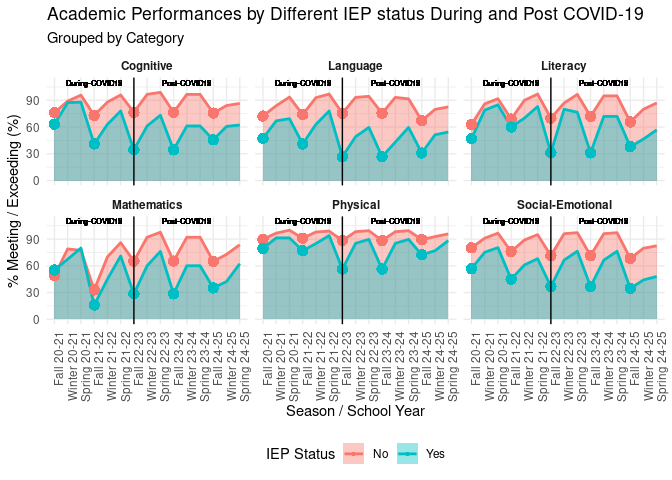
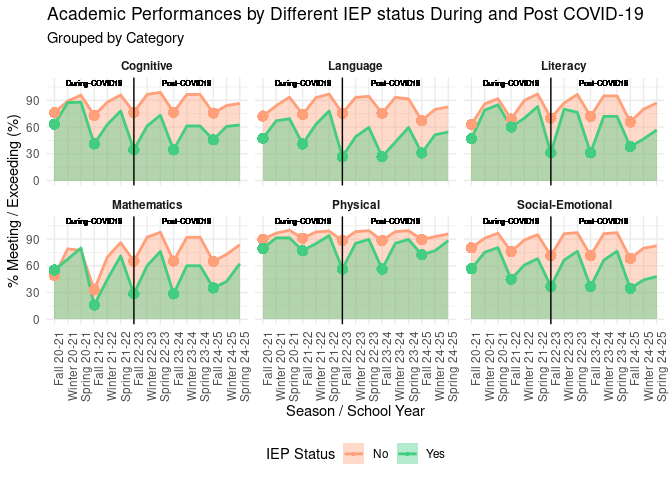
Complete IEP Graph Color

diff --git a/proposal/proposal.md b/proposal/proposal.md
@@ -541,6 +541,18 @@ iep_graph <- ggplot(
     color = "IEP Status"
   ) +
   scale_size_identity(guide = "none") +
+  scale_color_manual(
+    values = c(
+      "No" = "lightsalmon", 
+      "Yes" = "seagreen3"
+    ) 
+  ) +
+  scale_fill_manual(
+     values = c(
+      "No" = "lightsalmon", 
+      "Yes" = "seagreen3"
+    ) 
+  ) +
   theme_minimal() +
   theme(
     axis.text.x = element_text(angle = 90, hjust = 1),
